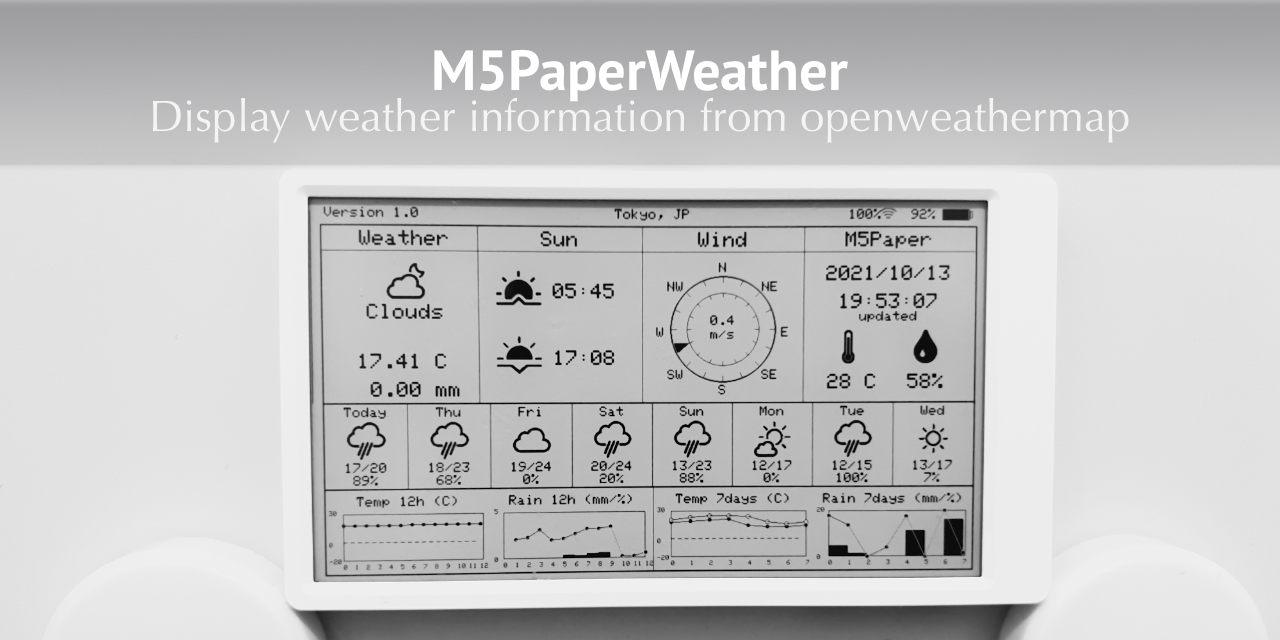
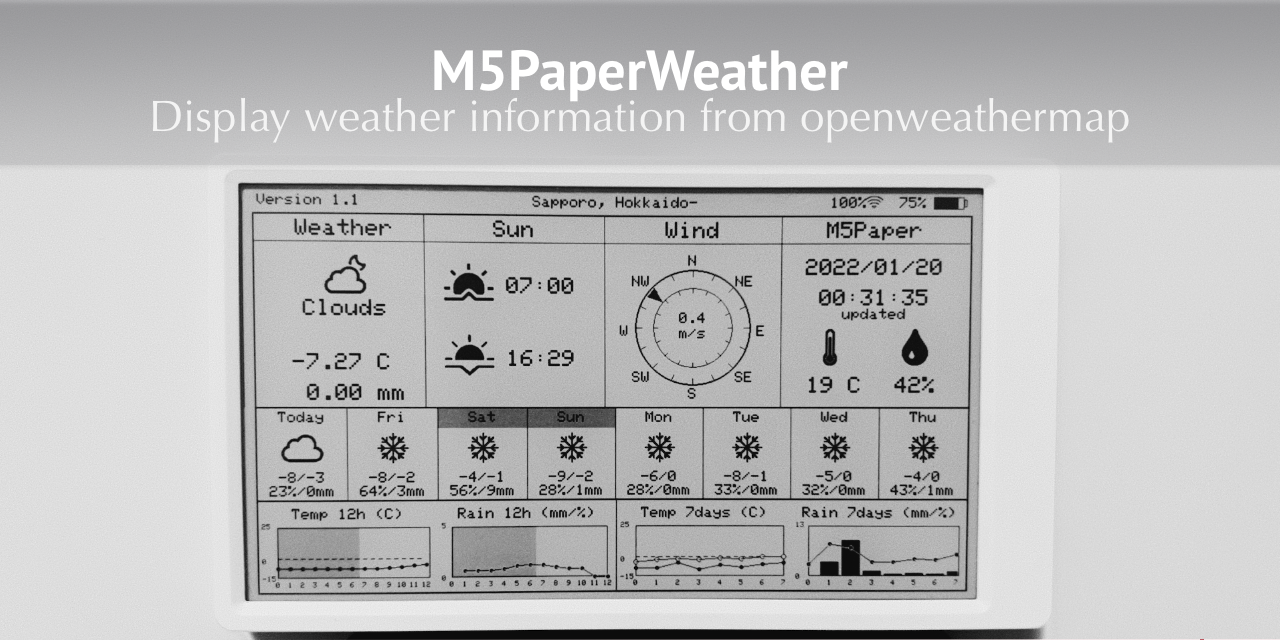
Update list about display information

Changed region(s): [[0.1875, 0.25, 0.8438, 1.0]]

diff --git a/README.md b/README.md
@@ -17,7 +17,7 @@ Originally forked from [https://github.com/Bastelschlumpf/M5PaperWeather](https:
   * Sun section with sunrise and sunset 
   * Wind section with wind direction and wind speed
   * The internal SH30 sensor data (temperature and humidity) with the current date and time
-  * _[NEW]_ A daily forecast with min/max temperature, probability of precipitation, and a weather icon.
+  * _[NEW]_ A daily forecast with min/max temperature, probability of precipitation, precipitation volume, and a weather icon.
   * _[NEW]_ Hourly and daily forecast graphs with temperature and rain.
 
   The information will be updated every hour or manually by pressing a button _[NEW]_.
